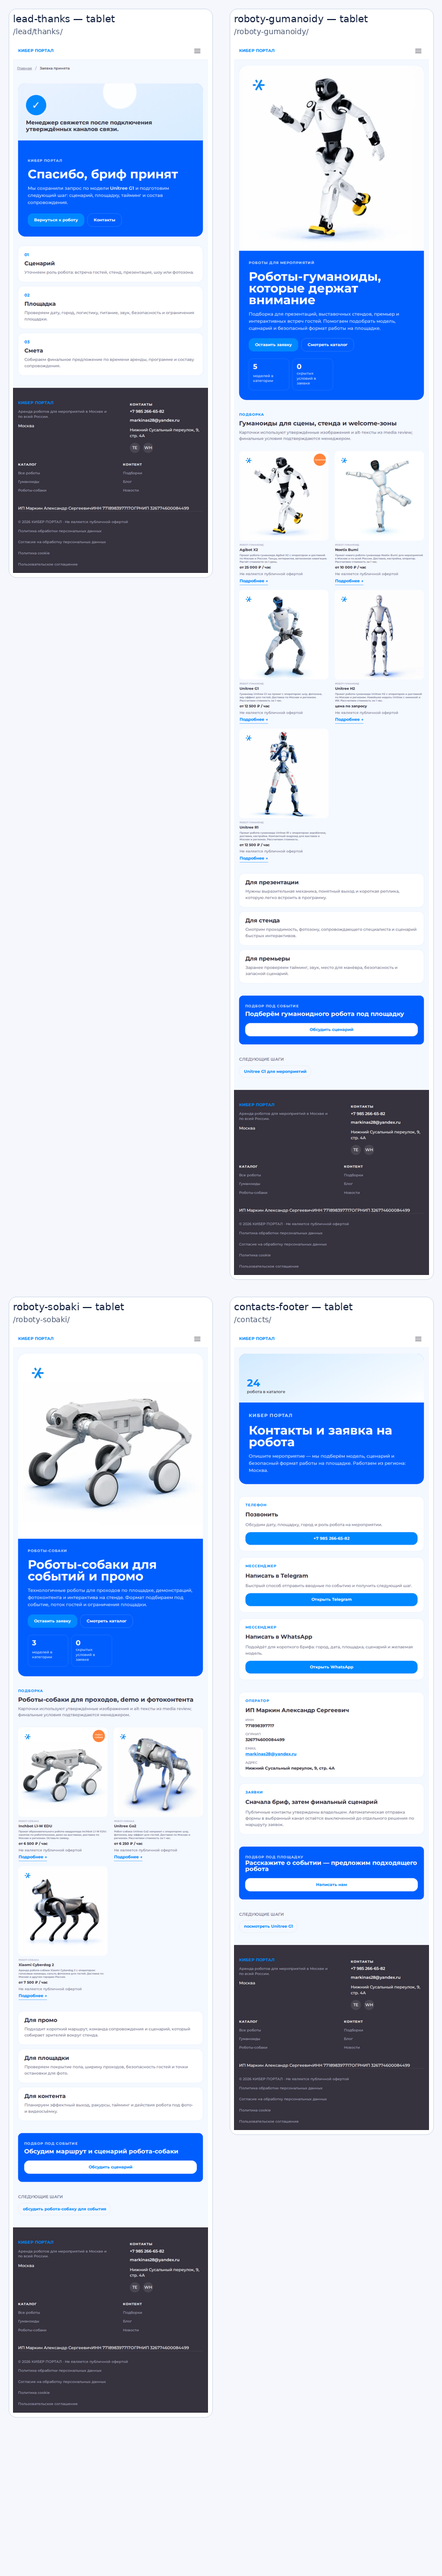
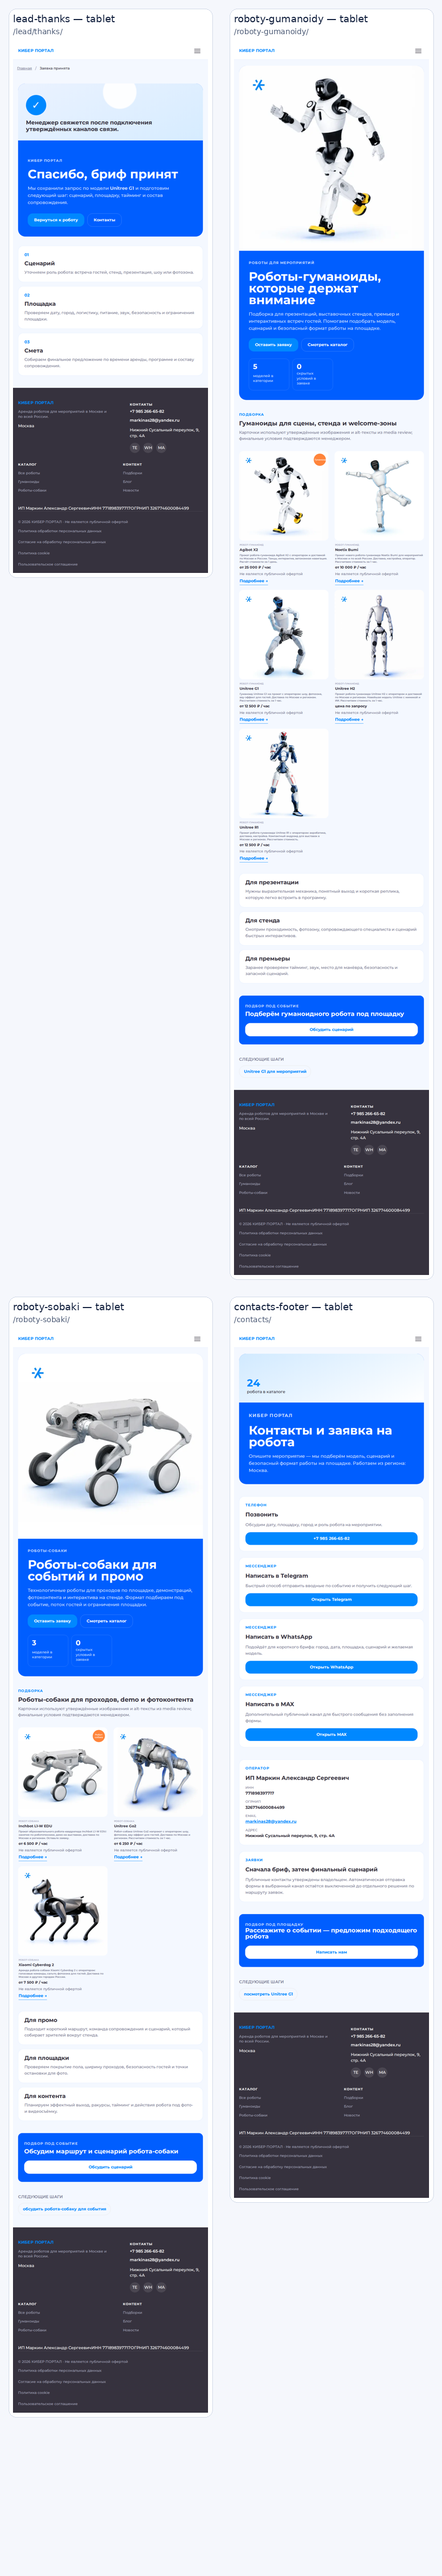
feat: add MAX public messenger link (#58)

Changed region(s): [[0.5208, 0.6546, 0.9804, 0.8728]]

diff --git a/tests/visual/public-max-messenger-link.test.ts b/tests/visual/public-max-messenger-link.test.ts
@@ -1,0 +1,30 @@
+import assert from 'node:assert/strict';
+import { readFileSync } from 'node:fs';
+import test from 'node:test';
+
+const read = (path: string) => readFileSync(path, 'utf8');
+
+const maxLink = 'https://max.ru/u/f9LHodD0cOJFwZ694dB_W9-xhrJzZpX0harafdS1XMVgHy-gk8Sh24t5tJA';
+
+test('site public config exposes the owner-approved MAX messenger link', () => {
+  const config = read('src/config/site.ts');
+  const envExample = read('.env.example');
+
+  assert.match(config, /max:\s*z\.url\(\)/);
+  assert.match(config, new RegExp(maxLink.replace(/[.*+?^${}()|[\]\\]/g, '\\$&')));
+  assert.match(envExample, /PUBLIC_MAX=/);
+  assert.match(envExample, new RegExp(maxLink.replace(/[.*+?^${}()|[\]\\]/g, '\\$&')));
+});
+
+test('contacts and footer present MAX as a public messenger choice without enabling lead routing', () => {
+  const contacts = read('src/pages/contacts.astro');
+  const footer = read('src/components/layout/Footer.astro');
+  const contract = read('data/lead/capability-contract.json');
+
+  assert.match(contacts, /MAX/);
+  assert.match(contacts, /siteConfig\.max/);
+  assert.match(footer, /MAX/);
+  assert.match(footer, /siteConfig\.max/);
+  assert.match(contract, /"enabled": false/);
+  assert.match(contract, /"destinations": \[\]/);
+});

diff --git a/src/config/site.ts b/src/config/site.ts
@@ -4,6 +4,7 @@ const publicConfigSchema = z.object({
   phone: z.string().min(1),
   telegram: z.url(),
   whatsapp: z.url(),
+  max: z.url(),
   email: z.email(),
   siteUrl: z.url(),
   region: z.string().min(1),
@@ -17,6 +18,7 @@ export const siteConfig = publicConfigSchema.parse({
   phone: import.meta.env.PUBLIC_PHONE ?? '+7 985 266-65-82',
   telegram: import.meta.env.PUBLIC_TG ?? 'https://t.me/+79852666582',
   whatsapp: import.meta.env.PUBLIC_WA ?? 'https://wa.me/79852666582',
+  max: import.meta.env.PUBLIC_MAX ?? 'https://max.ru/u/f9LHodD0cOJFwZ694dB_W9-xhrJzZpX0harafdS1XMVgHy-gk8Sh24t5tJA',
   email: import.meta.env.PUBLIC_EMAIL ?? 'markinas28@yandex.ru',
   siteUrl: import.meta.env.PUBLIC_SITE_URL ?? 'https://www.kiber-portal.ru',
   region: import.meta.env.PUBLIC_REGION ?? 'Москва',
